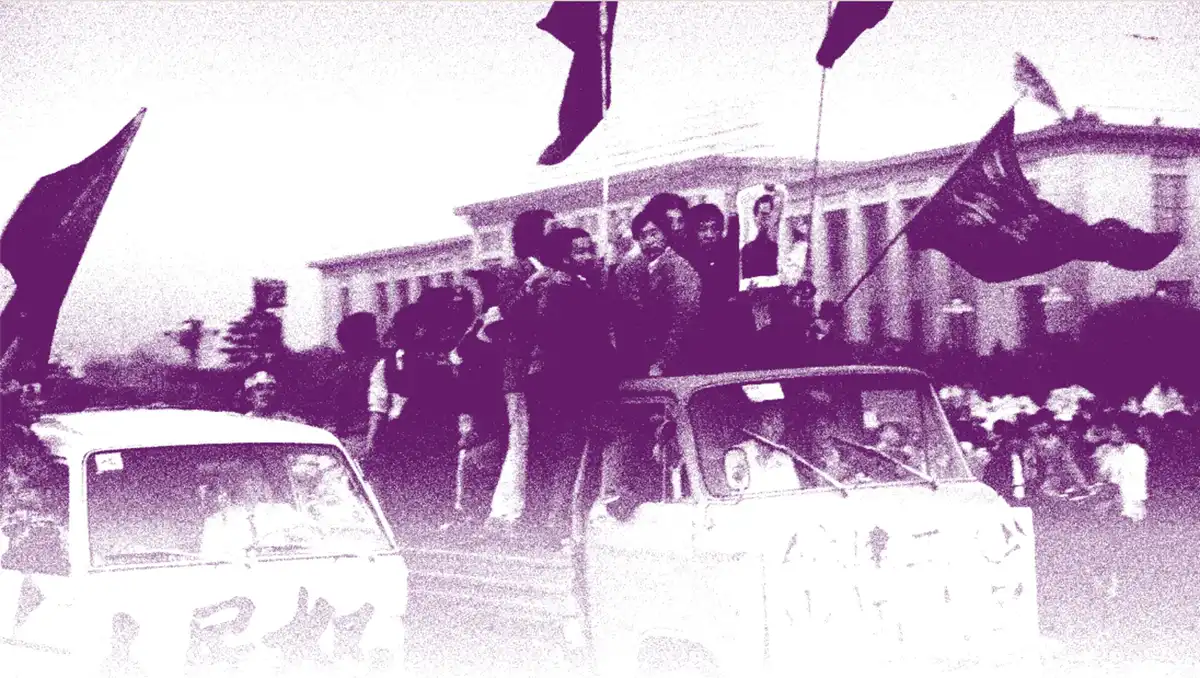
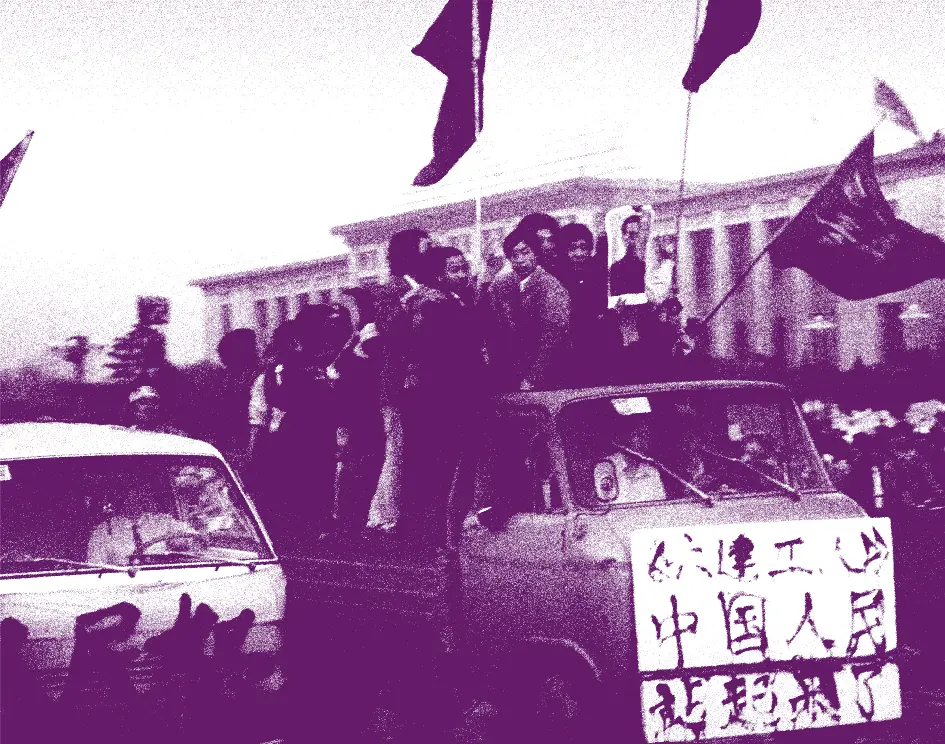
feat new images

diff --git a/src/projects/cua.md b/src/projects/cua.md
@@ -8,7 +8,7 @@ left:
     src: 'media/cua-hero.webp',
     alt: 'china unofficial archive hero image',
     bg: '#721D77',
-    padding: [5, .5, .5, .5],
+    padding: [1, 3, 4, 1],
     srcset: '2x'
   }
 right: { src: 'media/cua-items.webp', alt: 'photo of collection items' }

diff --git a/src/projects/design-signals.md b/src/projects/design-signals.md
@@ -7,7 +7,7 @@ left:
   {
     src: '/media/faber.webp',
     alt: 'screen recording of the animated data visualisation',
-    bg: '#a589d3',
+    bg: '#fff9da',
     padding: [.5, .5, 3]
   }
 right: { src: '/media/chemical-bonds-exhibition-view.jpg', alt: 'exhibition view' }

diff --git a/src/projects/vantage.md b/src/projects/vantage.md
@@ -15,7 +15,7 @@ right:
     src: 'media/vantage-gall.webp',
     alt: 'vantage reconstruction of a photography by Petra Gall',
     bg: '#8C8376',
-    padding: [.5, .5, 2, .5]
+    # padding: [.5, .5, 2, .5]
   }
 ---
 
